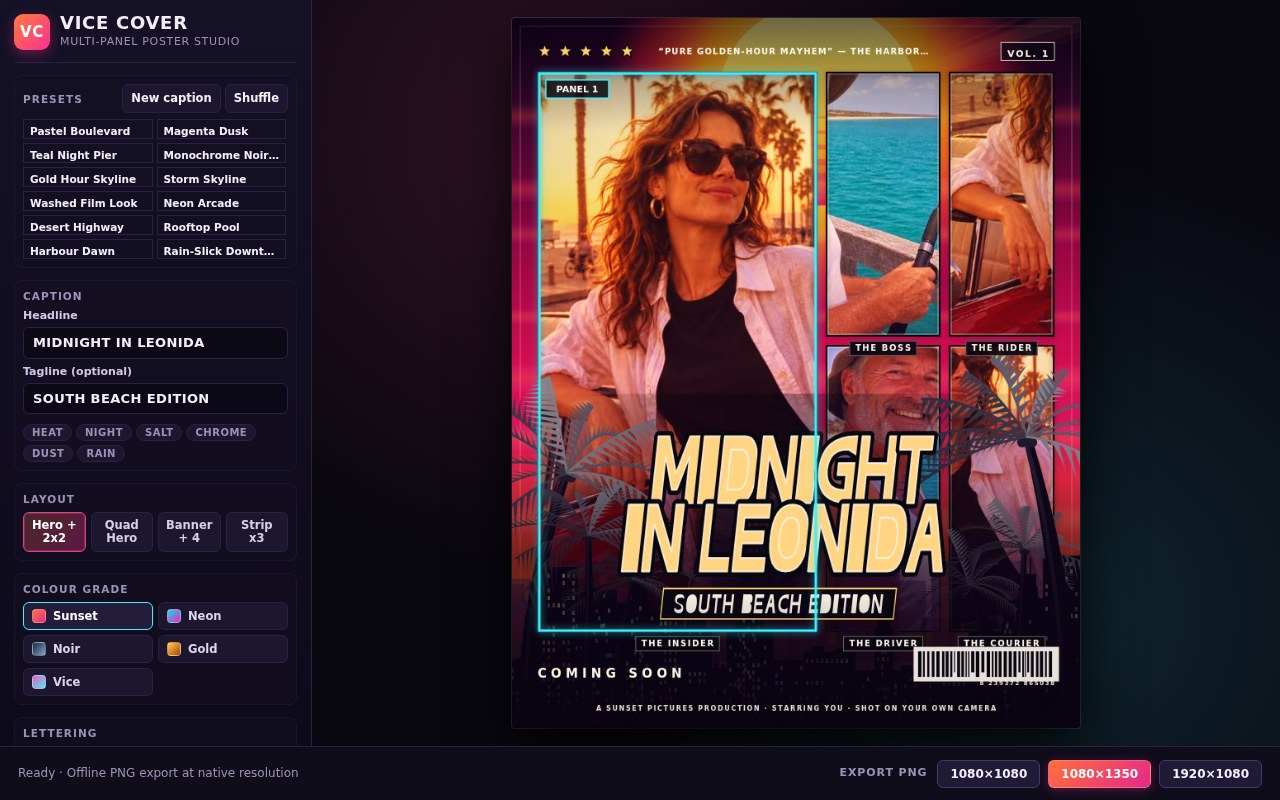
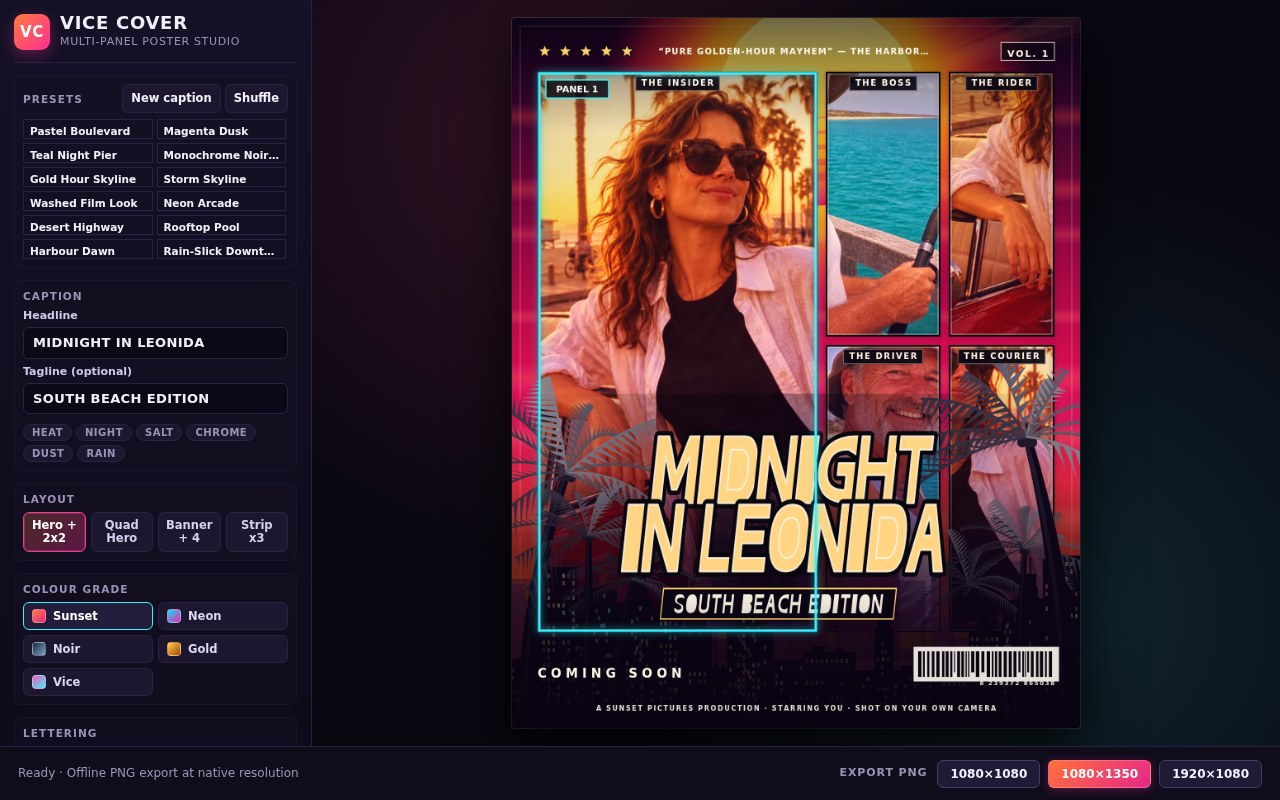
lettering: panel plates sit inside each photo's top edge, clear of the headline band

diff --git a/app/src/lettering.js b/app/src/lettering.js
@@ -1173,7 +1173,7 @@ export function drawPosterFurniture(ctx, width, height, state, palette) {
     const plateH = fontPx + padY * 2;
     let px = rect.x + rect.w / 2 - plateW / 2;
     px = Math.max(margin * 0.5, Math.min(width - margin * 0.5 - plateW, px));
-    const py = rect.y + rect.h + labelGap;
+    const py = rect.y + labelGap;
 
     ctx.fillStyle = ink;
     ctx.fillRect(px, py, plateW, plateH);
